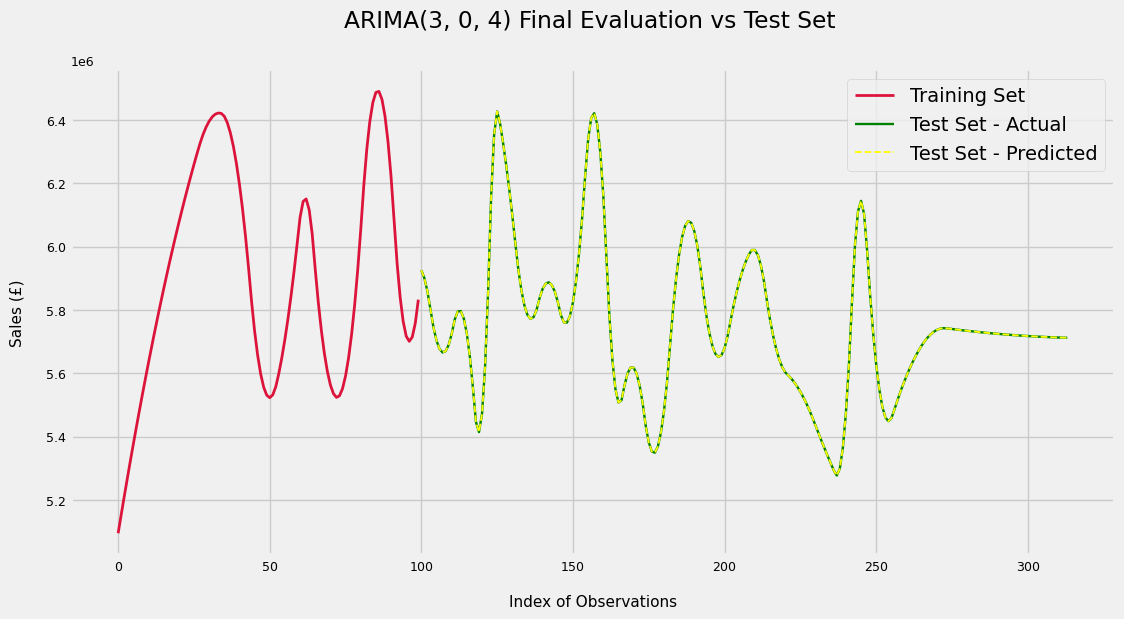
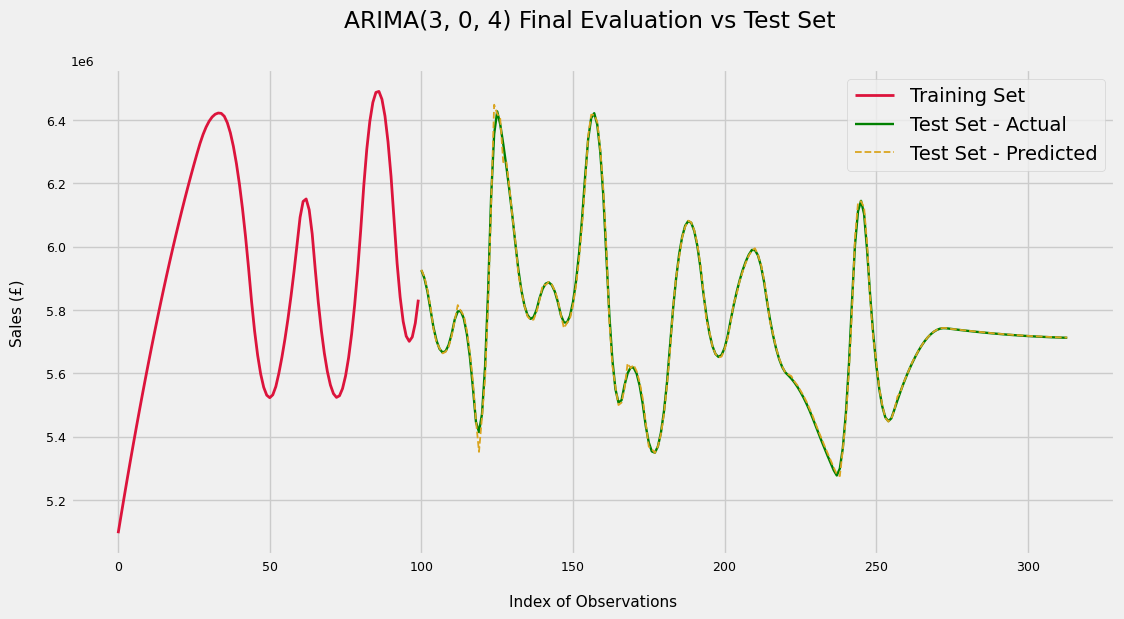
fixed final evaluation graph

diff --git a/_posts/2024-09-28-walmart-time-series-sales-prediction.md b/_posts/2024-09-28-walmart-time-series-sales-prediction.md
@@ -973,7 +973,7 @@ plt.plot([None for x in dataset[:100]] + [x for x in test],
           color = 'green',
           label = 'Test Set - Actual')
 
-plt.plot([None for x in dataset[:100]] + [x for x in test],
+plt.plot([None for x in dataset[:100]] + [x for x in predictions],
           linewidth = 1.3,
           color = 'slateblue',
           linestyle = '--',
